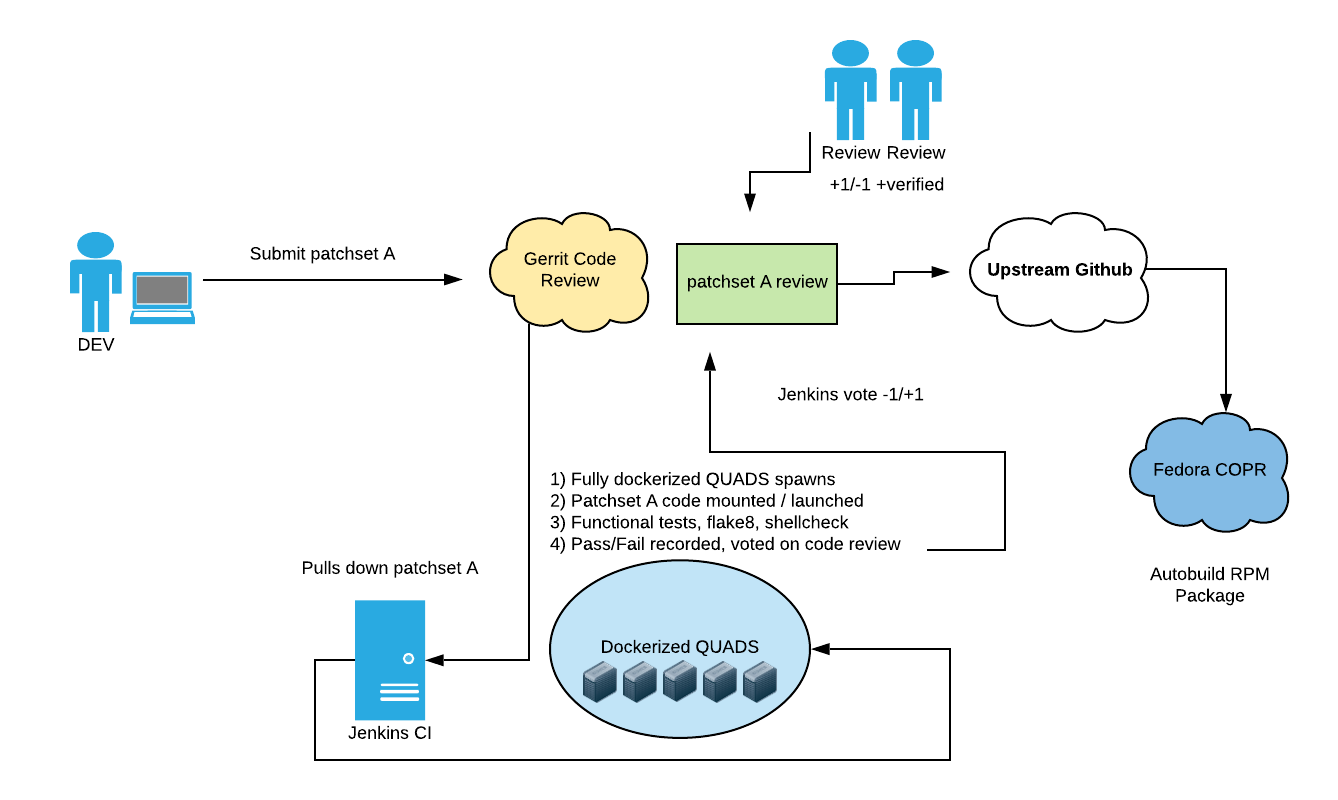
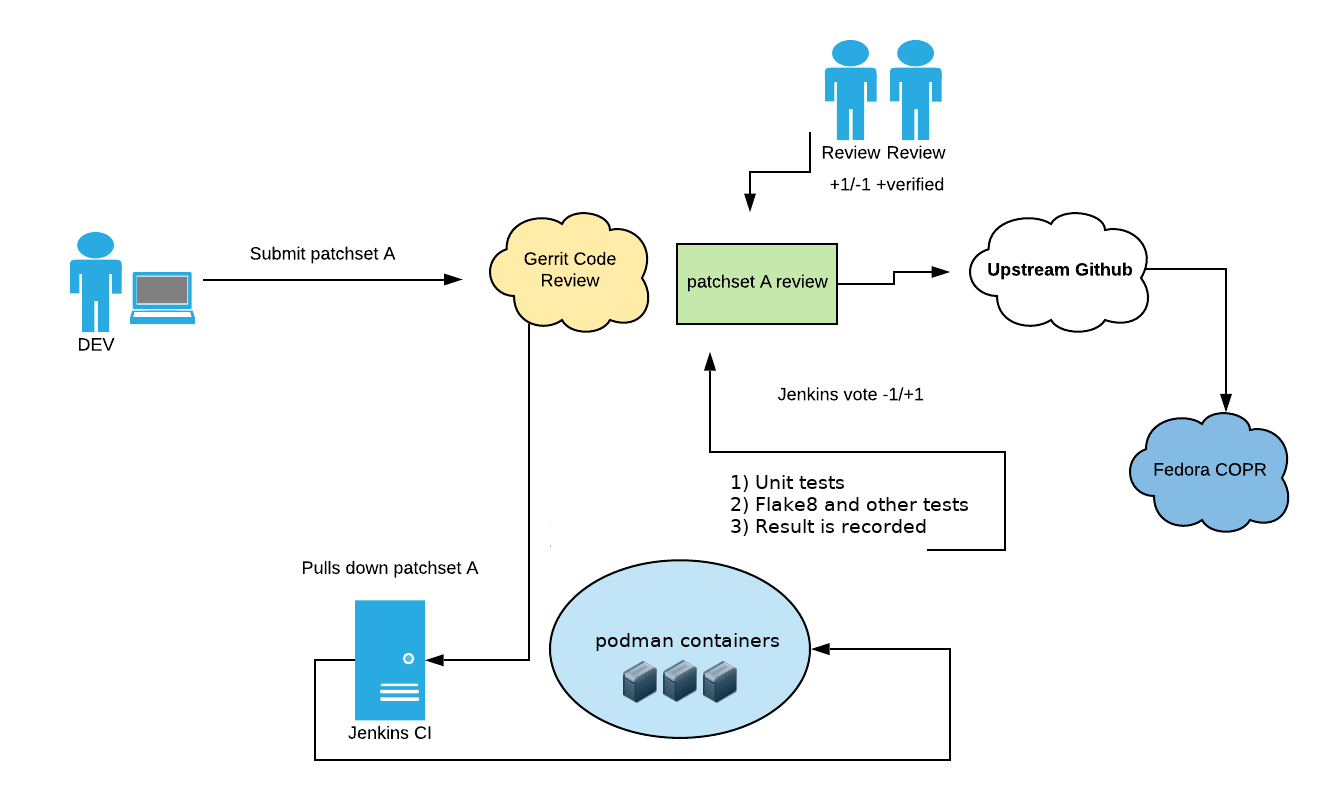
doc: update contributing
* Add proper TOC
* Update CI architecture details
* Small wording/grammar alignment.

Changed region(s): [[0.3984, 0.5938, 0.7354, 0.6875], [0.429, 0.7812, 0.5822, 0.875], [0.858, 0.6875, 0.9499, 0.75]]

diff --git a/CONTRIBUTING.md b/CONTRIBUTING.md
@@ -10,6 +10,27 @@ The QUADS project welcomes contributions from everyone!  Please read the below s
   * We use [Gerrit](https://review.gerrithub.io/q/project:redhat-performance%252Fquads) for code review instead.
   * You can also find us on IRC at **#quads** on ```irc.libera.chat``` [webchat](https://web.libera.chat/?channels=#quads)
 
+    * [QUADS Development Setup](#quads-development-setup)
+        * [The QUADS Repository](#the-quads-repository)
+        * [Virtual Environment Setup](#virtual-environment-setup)
+        * [Pre-commit Hooks](#pre-commit-hooks)
+        * [Running QUADS Locally](#running-quads-locally)
+            * [Running the DB](#running-the-db)
+            * [Running the QUADS Server App](#running-the-quads-server-app)
+            * [Running the QUADS Web Flask App](#running-the-quads-web-flask-app)
+        * [Running the Tox Testing Suite](#running-the-tox-testing-suite)
+    * [Create a Tracking Issue](#create-a-tracking-issue)
+    * [Setup Github and Gerrit Account](#setup-github-and-gerrit-account)
+    * [Make a Commit and Submit Review](#make-a-commit-and-submit-review)
+        * [Integrate Git Review](#integrate-git-review)
+        * [Managing Git Review Patchsets](#managing-git-review-patchsets)
+        * [Monitor your Patchset Lifecycle](#monitor-your-patchset-lifecycle)
+        * [Continuous Integration](#continuous-integration)
+            * [Commit Hooks](#commit-hooks)
+            * [Jenkins CI Pipeline](#jenkins-ci-pipeline)
+            * [Code Review Tips](#code-review-tips)
+            * [QUADS CI Architecture](#quads-ci-architecture)
+
 ## QUADS Development Setup
 
 ### The QUADS Repository
@@ -22,8 +43,7 @@ The QUADS project welcomes contributions from everyone!  Please read the below s
   - Change directory to the code and create your own branch to work
     ```
     cd quads
-    git branch name_of_change
-    git checkout !$
+    git checkout -b name_of_change
     ```
 
 ### Virtual Environment Setup
@@ -41,7 +61,7 @@ The QUADS project welcomes contributions from everyone!  Please read the below s
     cp -r conf/* /opt/quads/conf/
     ```
 
-### Pre-commit hooks
+### Pre-commit Hooks
 
   - Install pre-commit
     ```bash
@@ -87,7 +107,7 @@ The QUADS project welcomes contributions from everyone!  Please read the below s
     ```
   - You can now access the QUADS Web UI at `http://localhost:5001/`
 
-### Running Tox testing suite
+### Running Tox Testing Suite
 
   - After all steps on the [Running QUADS Locally](#Running-QUADS-Locally) section have been completed, you can run the tests.
   - To run the full suite of tests, you can use the `tox` command
@@ -104,7 +124,8 @@ The QUADS project welcomes contributions from everyone!  Please read the below s
   - Provide a meaningful explanation, citing code lines when relevant.
   - Explain what you are trying to fix, or what you're trying to contribute.
 
-## Setup Github / Gerrit Account (one-time only)
+## Setup Github and Gerrit Account
+* **This is a one-time only setup step**
 * You'll need a Github account to proceed.
 * Setup username/email for Github and Gerrithub (one time only):
   - Ensure Github and Gerrithub are linked by [signing into Gerrithub via Github](https://review.gerrithub.io/login)
@@ -121,7 +142,7 @@ git config user.name "Venril Sathir"
 git config --add gitreview.username "vsathir"
 ```
 
-## Make a Commit, Submit Review
+## Make a Commit and Submit Review
 * Add a local commit with a meaningful, short title followed by a space and a summary (you can check our [commit history](https://github.com/redhat-performance/quads/commits/latest) for examples.
 * Add a line that relates to a new or existing github issue, e.g. ```fixes: https://github.com/redhat-performance/quads/issues/5``` or ```related-to: https://github.com/redhat-performance/quads/issues/25```
 
@@ -130,7 +151,8 @@ git add quads/api_v2.py
 git commit
 ```
 
-### Integrate Git Review (First Time Only)
+### Integrate Git Review
+* **This is a one-time only setup step**
 * Install git-review and run it for first time.
 
 ```
@@ -152,7 +174,7 @@ git review
 * If you want to make changes to your patchset you can run the ```git commit --amend``` command.
 
 ```
-vim /src/quads/quads_api.py
+vim src/quads/cli/cli.py
 git commit --amend
 git review
 ```
@@ -160,14 +182,16 @@ git review
 * If you just want to check out an existing patchset in Gerrit you can use the `git review -d $CHANGEID` command.
 
 ```
-cd /opt/container/quads
 git review -d $CHANGEID
 ```
 
 ### Monitor your Patchset Lifecycle
 * Keep an eye on your patchset in Gerrithub, this is where CI will run, where we'll provide feedback and where you can monitor changes and status.  Your git review command will print the correct URL to your patchset.
 
-### Continuous Integration (CI)
+### Continuous Integration
+
+#### Commit Hooks
+  - We use [black](https://github.com/psf/black) and [flake8](https://flake8.pycqa.org/en/latest/) pre-commit hooks.
 
 #### Jenkins CI Pipeline
 The CI pipeline currently checks the following for every submitted patchset: